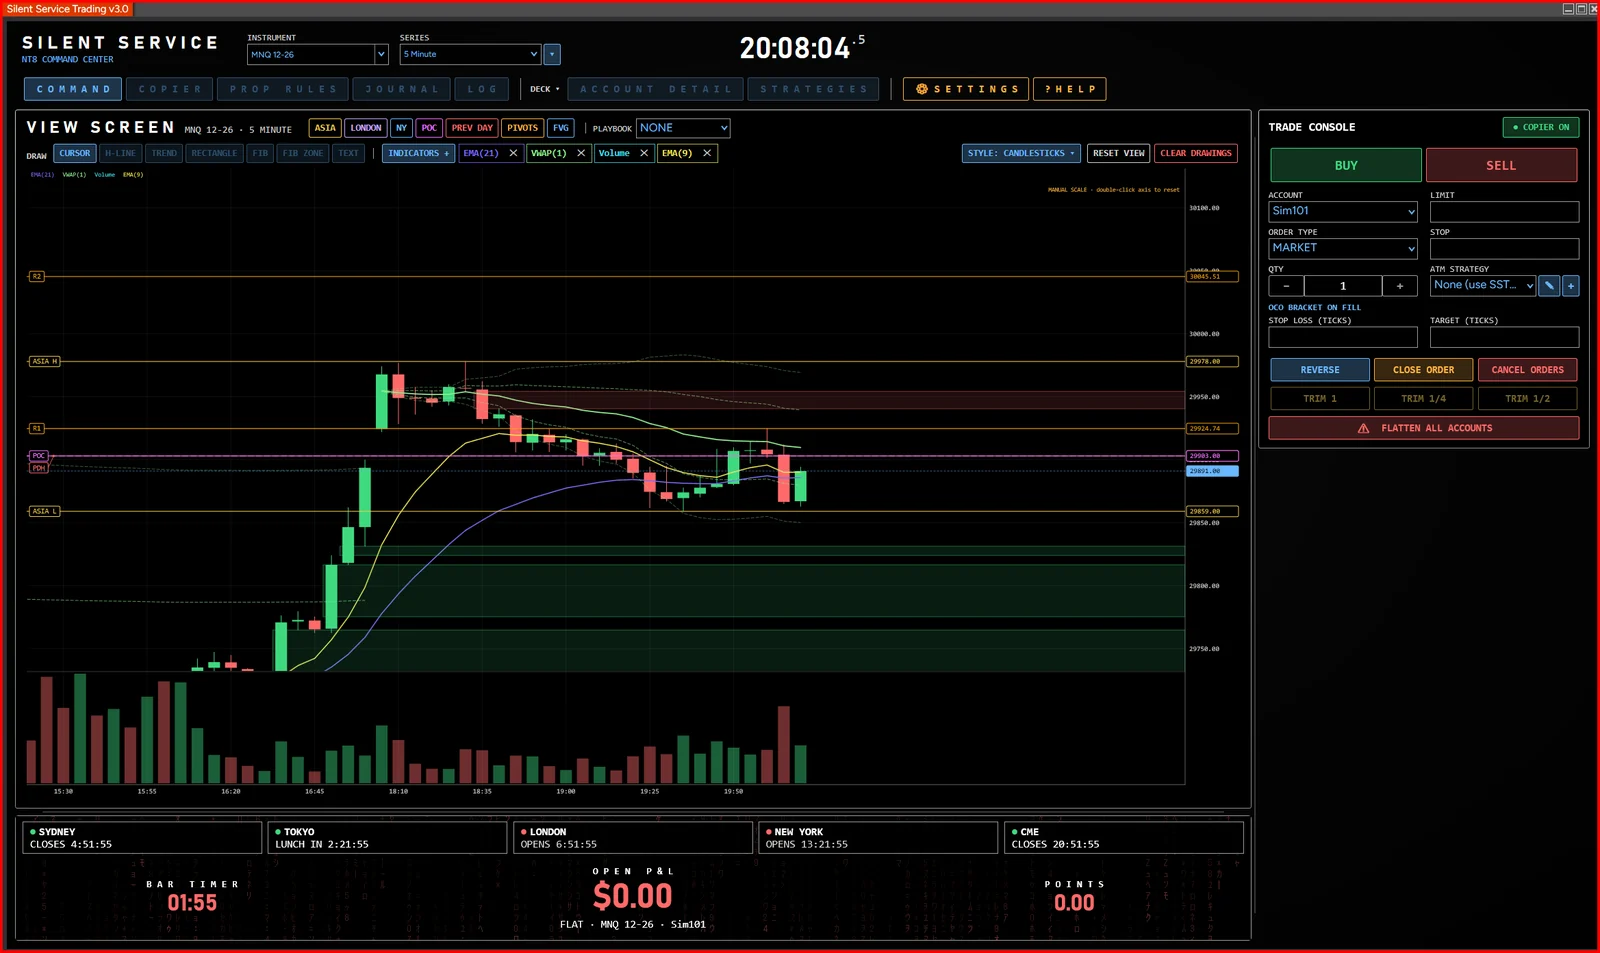
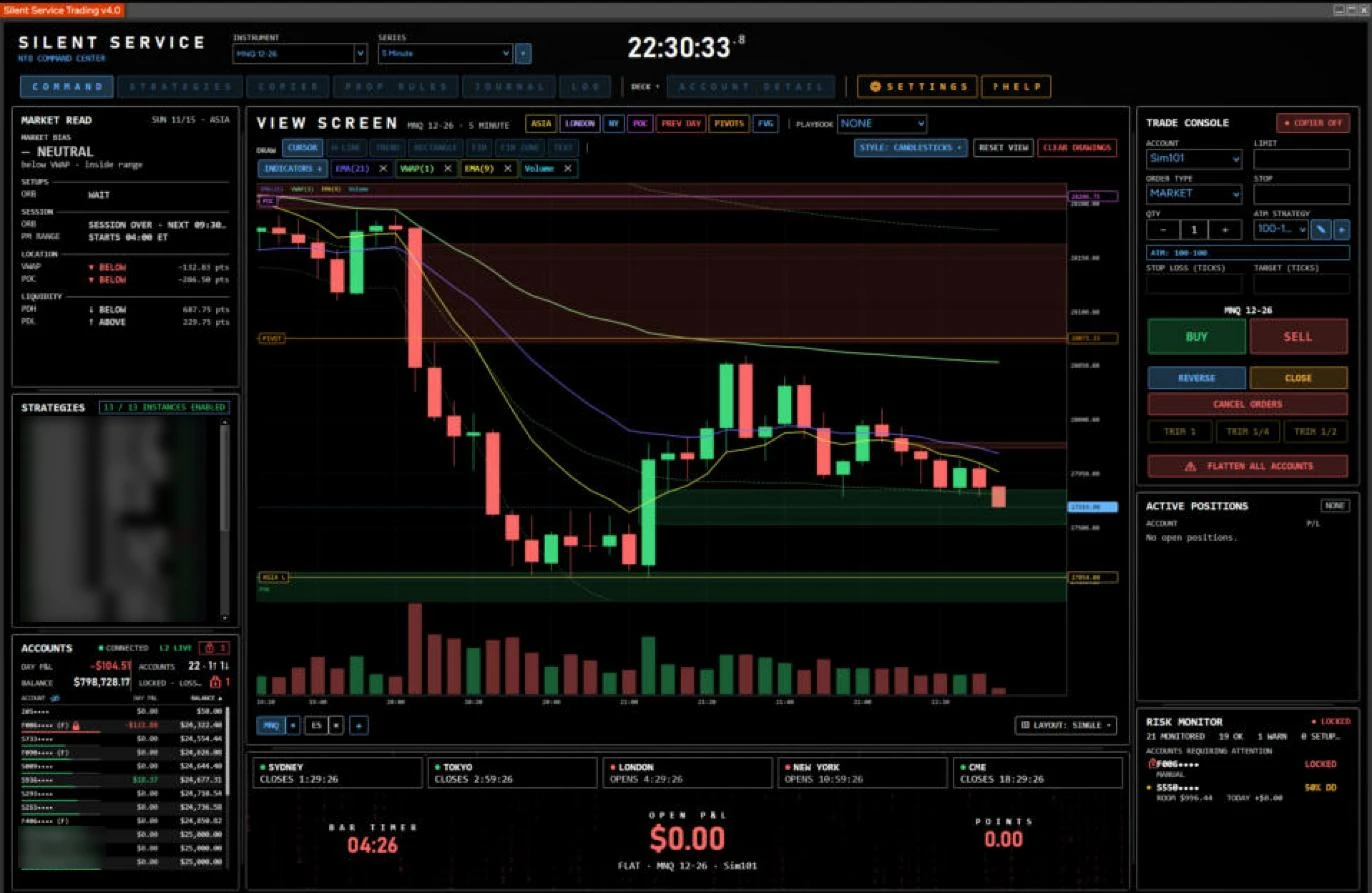
New workspace screenshot (accounts masked, strategy names blurred)
Claude-Session: https://claude.ai/code/session_01CW6AG73K3NvifGMNTorxUc

diff --git a/index.html b/index.html
@@ -62,7 +62,7 @@
     </div>
     <div>
 <figure class="shot shot-real">
-  <img src="/assets/img/cc-workspace.webp" alt="SST View Screen: a 5-minute MNQ chart with session, pivot and POC levels beside the Trade Console" width="1600" height="953" fetchpriority="high" decoding="async">
+  <img src="/assets/img/cc-workspace.webp" alt="SST View Screen: a 5-minute MNQ chart with session, pivot and POC levels beside the Trade Console" width="1372" height="893" fetchpriority="high" decoding="async">
 </figure>
     </div>
   </div>

diff --git a/command-center/index.html b/command-center/index.html
@@ -60,7 +60,7 @@
     </div>
     <div>
 <figure class="shot shot-real">
-  <img src="/assets/img/cc-workspace.webp" alt="SST View Screen with chart levels and the Trade Console" width="1600" height="953" fetchpriority="high" decoding="async">
+  <img src="/assets/img/cc-workspace.webp" alt="SST View Screen with chart levels and the Trade Console" width="1372" height="893" fetchpriority="high" decoding="async">
 </figure>
     </div>
   </div>
